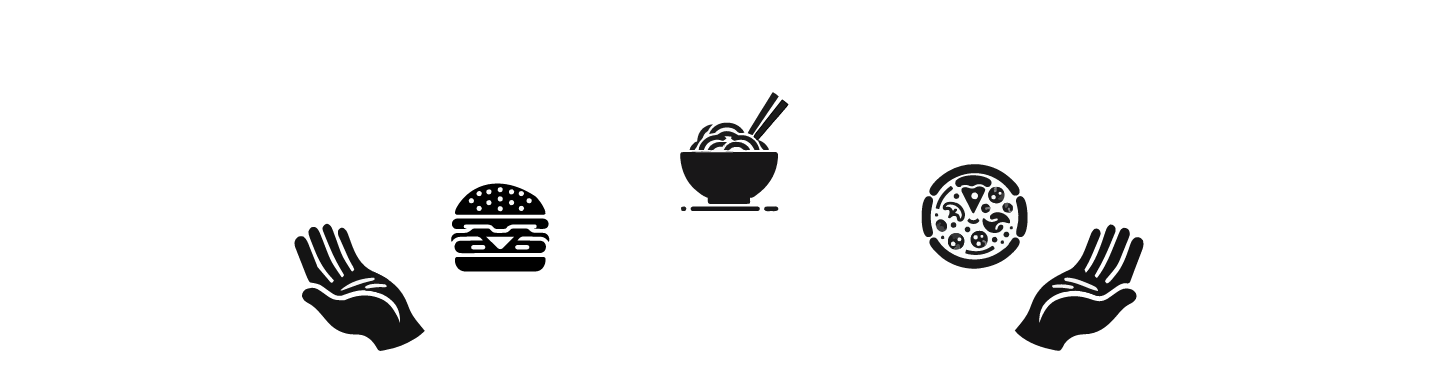
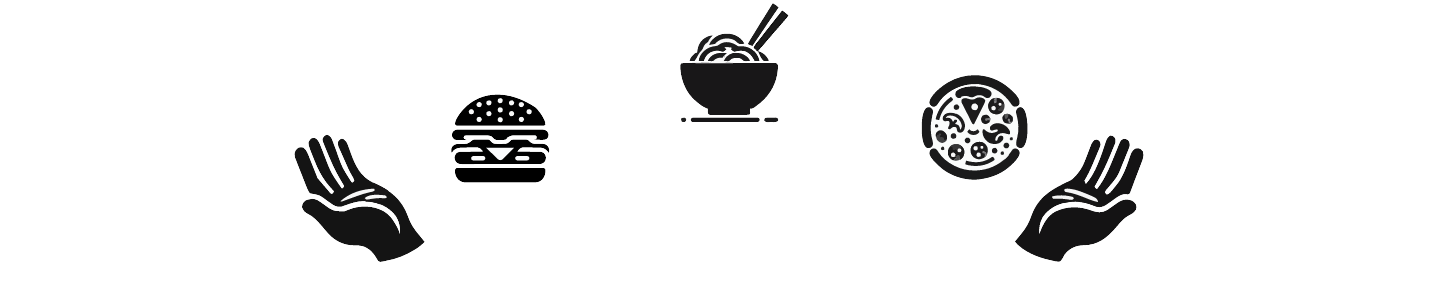
Fix bug 2 button in index.html
the footer image overlay a half of the button so that its hard to click the button

diff --git a/WebFoodDeli/src/main/webapp/styles/welcome.css b/WebFoodDeli/src/main/webapp/styles/welcome.css
@@ -94,25 +94,15 @@ p.call-login {
     font-weight: 200;
     font-size: 24px;
 }
-.ellipse {
-    position: relative;
-    bottom: -30%;
-    width: 100%;
-    height: 50%;
-    opacity: 1;
-    background: #fafafa;
-    /* box-sizing: border-box;
-    border: 1px solid rgba(171, 171, 171, 0.5); */
-    border-radius: 50%; /* This turns a rectangle into an ellipse */
-}
+
 /* .noodleImg {
     width: 15% 
     
 } */
  .footerImg{
     position: relative;
-    bottom: -10%;
+    bottom: -20%;
     width: 100%;
-    height: 50%;
+    height: 35%;
     opacity: 1;
  }

diff --git a/WebFoodDeli/src/main/webapp/index.html b/WebFoodDeli/src/main/webapp/index.html
@@ -35,7 +35,7 @@
     
         <!-- <img class="noodleImg" src="Utilities/img/Noodle.png" alt="Description of Image"></object> -->
 
-        <!-- <div class="ellipse"></div> -->
+
         <img class="footerImg" src="Utilities/img/FooterImg.png" alt="footerImg">
 
 
